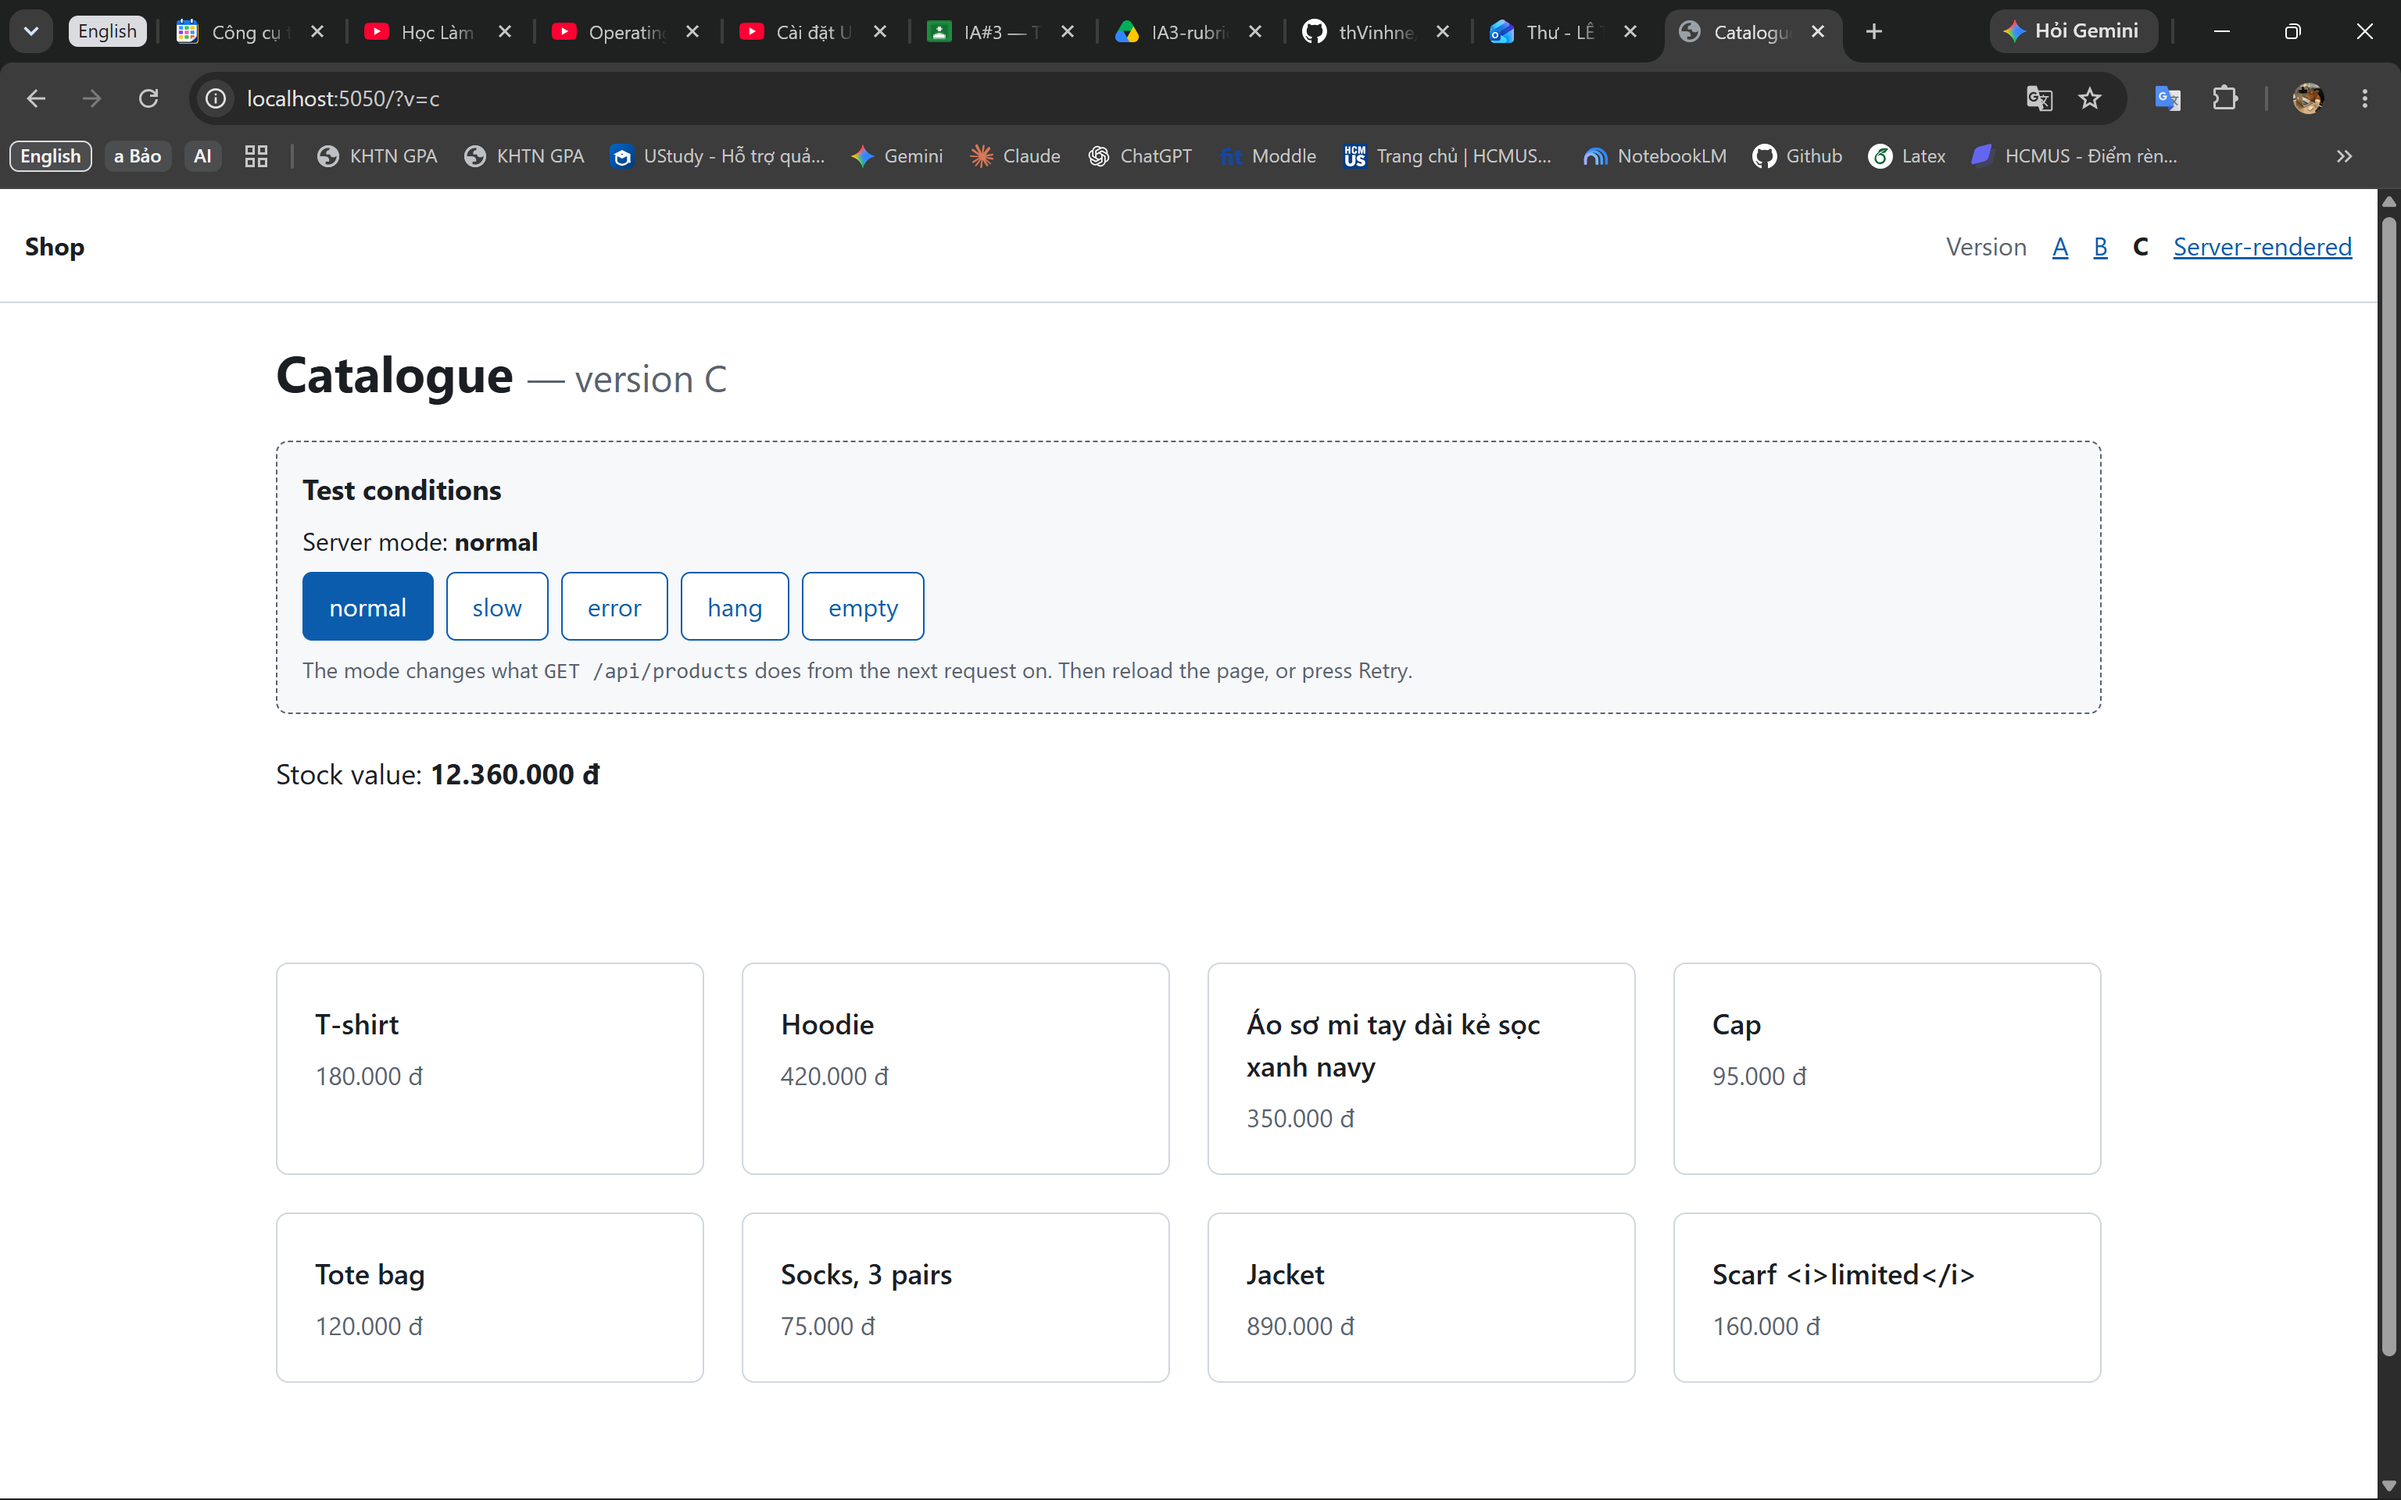
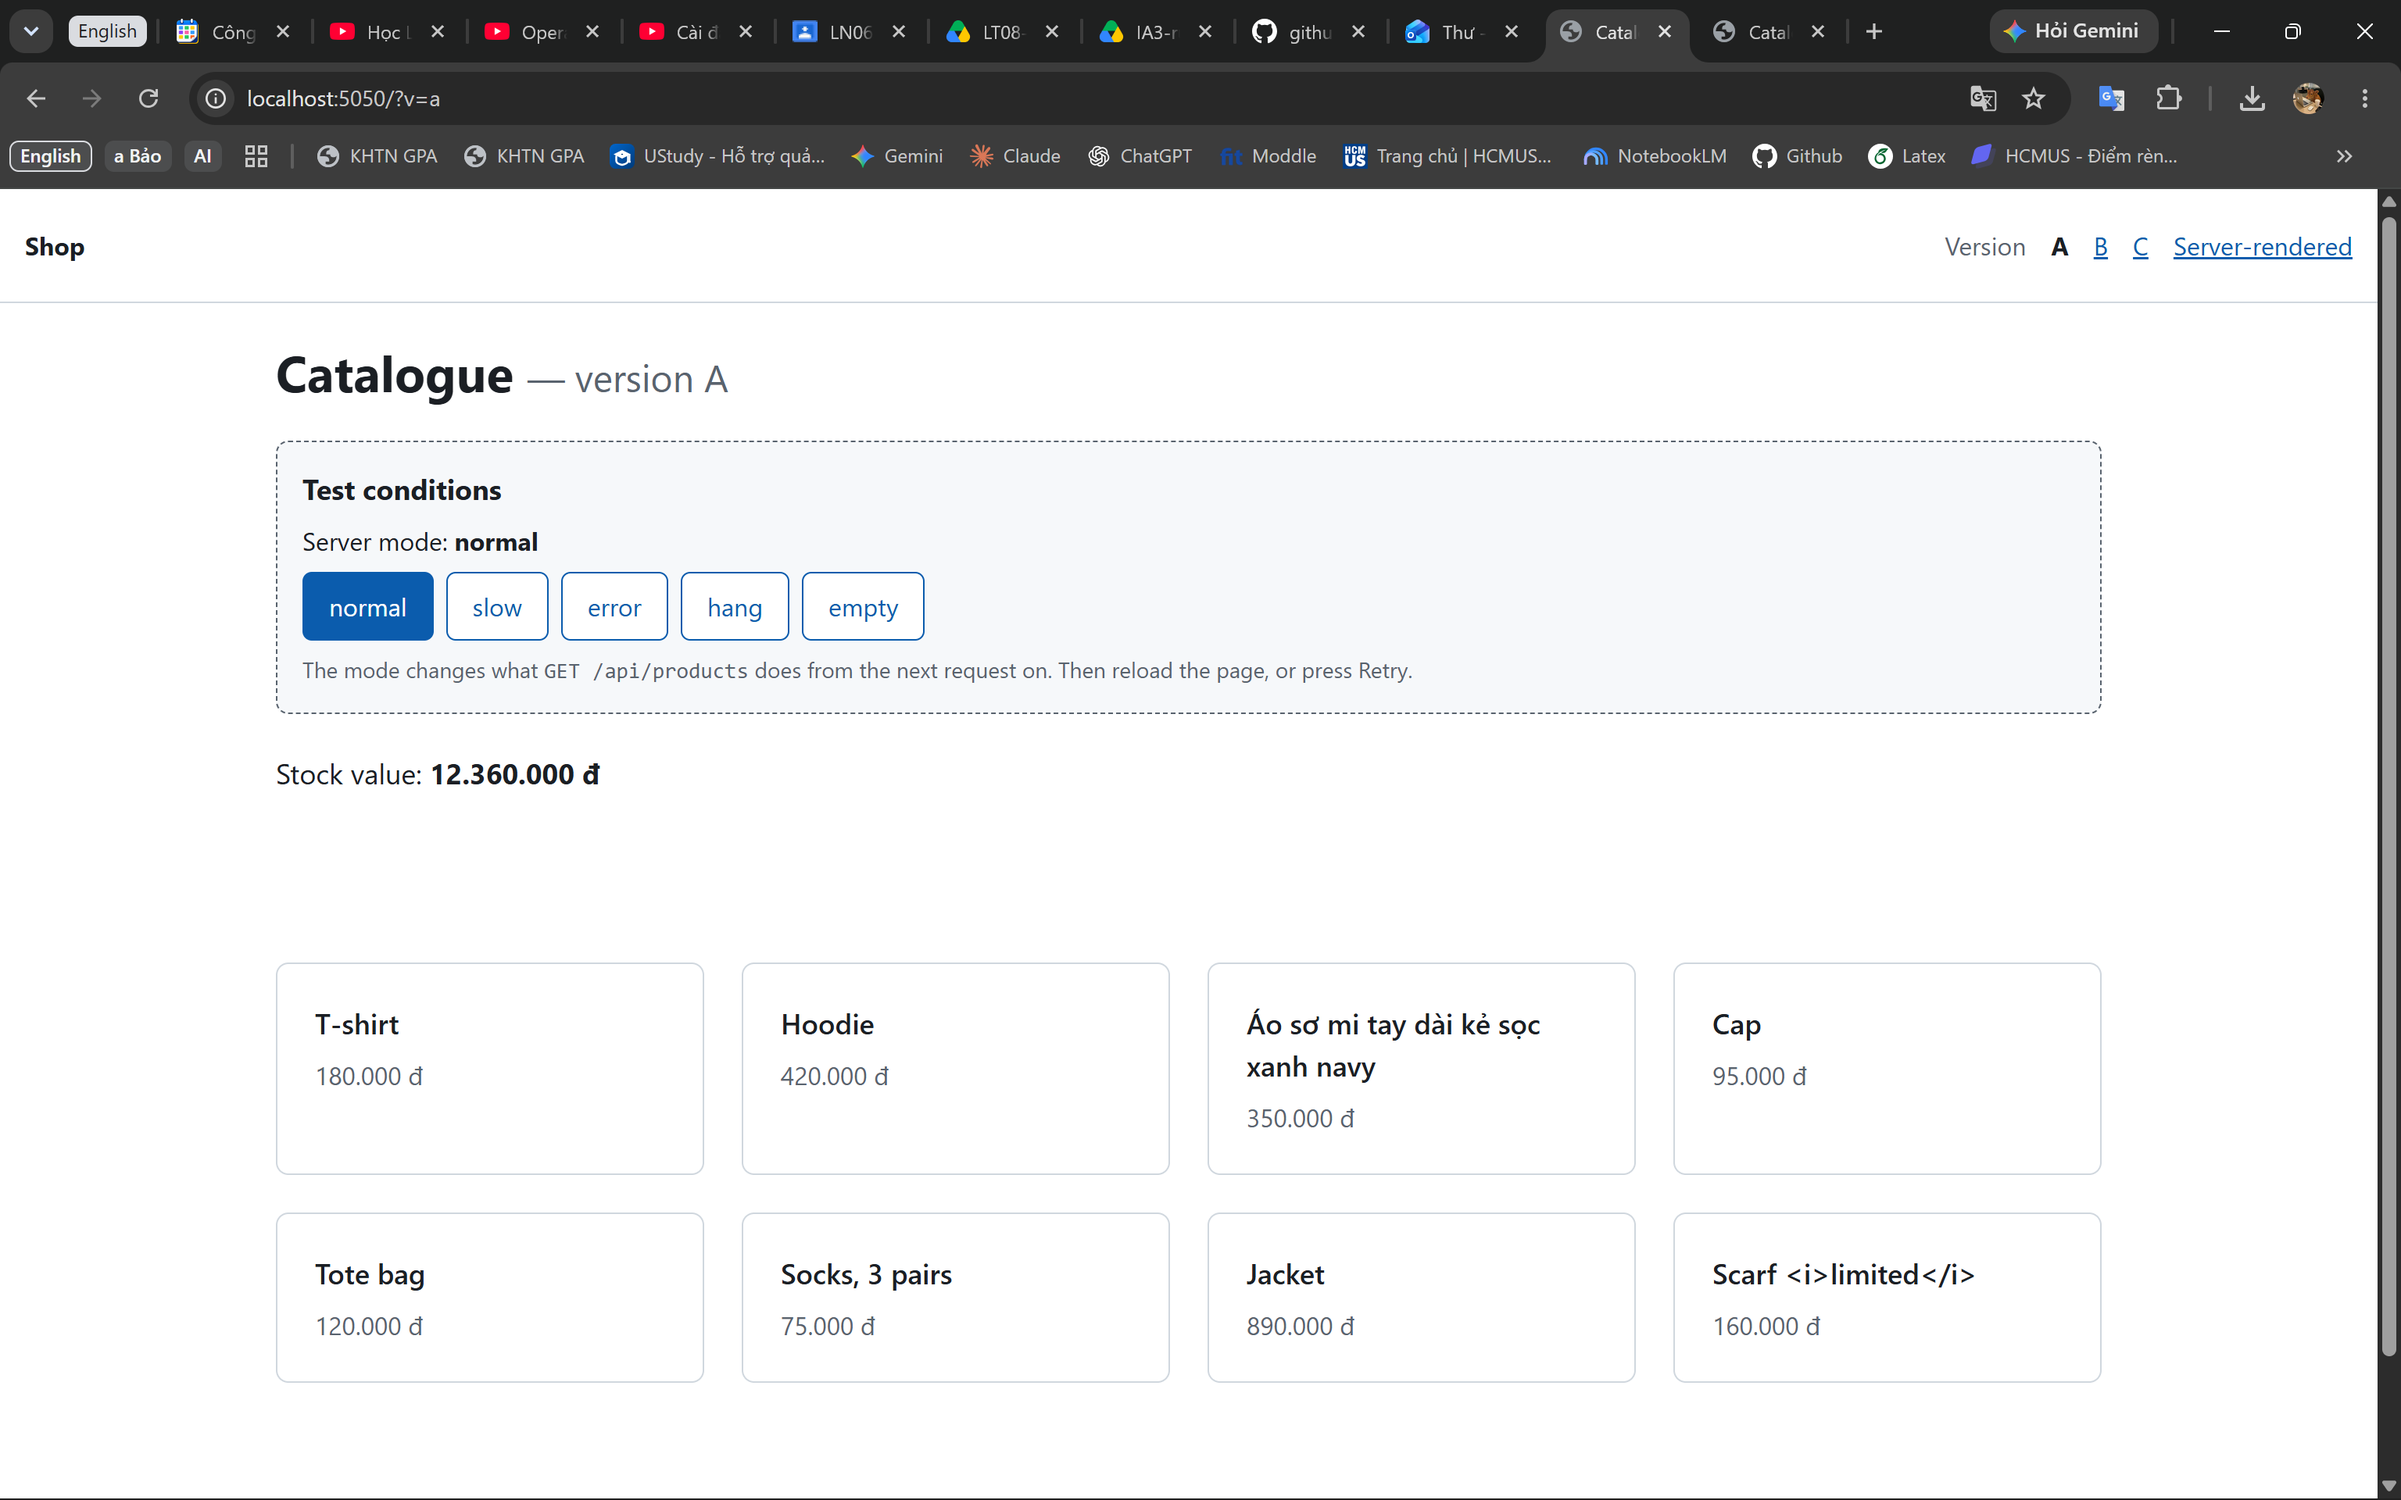
commit report

Changed region(s): [[0.125, 0.0, 0.7812, 0.0625], [0.8438, 0.0625, 0.9062, 0.0938], [0.8125, 0.1562, 0.8438, 0.1875]]

diff --git a/SELF_ASSESSMENT_REPORT.md b/SELF_ASSESSMENT_REPORT.md
@@ -1,0 +1,26 @@
+# Self-assessment — IA#3
+
+Submitted by: 24120157 — Lê Thái Vinh
+
+Total I claim: 100 / 100
+
+Tên ZIP dự kiến: `24120157_97.zip`.
+
+| Criterion | Max | Claim | Evidence |
+|---|---:|---:|---|
+| Verdicts and evidence | 30 | 30 | `VERDICTS.md` có 27 dự đoán và 27 kết quả bản gốc; A lỗi mục 2, B lỗi mục 6 và 8, có dòng code và câu yêu cầu sửa. Ảnh FAIL: `evidence/a-row2.png`, `evidence/b-row6.png`, `evidence/b-row8.png`. Ảnh B bổ sung ngày 03/11/2026: `b-row6.png` cho thấy Loading và request Pending với đồng hồ 5,55 giây; `evidence/b-row6-30s.png` cho thấy HTTP 504 và thời gian request 30,01 giây trong Network. Đồng hồ là phép đo thủ công; số 30,01 giây là số đo Network. Khoản trừ 5 điểm vì thiếu bằng chứng thời gian đã được khắc phục. Commit dự đoán `9fe8b2486783` đứng trước commit kết quả `d98cf0f786e9`. |
+| Every version passes every row | 25 | 25 | `public/versions/a.js`, `b.js`, `c.js`; kết quả tôi ghi trong `VERDICTS.md`. Lần kiểm tra trước của trợ lý bằng Chrome thật trên bản sao dùng server starter xác nhận cả ba đạt mục 1–8, empty và stock song song. TypeScript 6.0.3 cho 0 diagnostic ở mỗi bản; timeout A/B/C khoảng 5013,90 / 5011,90 / 5014,85 ms; tám stock request bắt đầu trong 0,282 / 0,450 / 0,278 ms. Đây là số đo của trợ lý, không phải lượt tôi tự chạy. Ảnh mới `evidence/a-row2-fix.png` hiển thị đúng version A, mode normal và tổng `12.360.000 đ`; `evidence/b-row6-fix.png` hiển thị đúng B, lỗi và Retry với đồng hồ 5,30 giây. Ảnh đồng hồ hỗ trợ ghi nhận thủ công, không thay số đo request; việc stock song song dựa trên kiểm tra trước của trợ lý, không suy từ tổng đúng trong ảnh. |
+| The assistant's review, checked | 15 | 15 | `ASSISTANT-REVIEW.md` có công cụ/model, prompt, review Sol nguyên văn và 27 dòng đối chiếu với kết quả bản gốc. Sol đã tìm đủ A mục 2 và B mục 6/8; chưa có lỗi bỏ sót được xác nhận. Nhận định về rejection khi stock của A gốc lỗi được ghi rõ là rủi ro có điều kiện chưa thử, không bị coi là FAIL mục 7 trong các lượt chuẩn. Thử riêng stock lỗi là kiểm tra mở rộng ngoài bảng bắt buộc; không trừ điểm vì chưa thực hiện thử nghiệm này. |
+| CSR vs SSR | 10 | 10 | `CSR-SSR.md` trả lời đủ năm câu; `evidence/csr-requests.png` và `ssr-requests.png` thể hiện 14/2 tổng request. Quan sát source, escape scarf và tắt JavaScript được ghi trong `CSR-SSR.md`. Lượt kiểm tra trước của trợ lý xác nhận các hành vi đó, 14/2 tổng request và 9/0 API lấy dữ liệu sản phẩm/tồn kho. |
+| AI-LOG.md | 10 | 10 | `AI-LOG.md` có các mục riêng cho review, sửa A, sửa B, kiểm tra sau sửa, CSR–SSR và audit; ghi công cụ, yêu cầu, kết quả, Kept/Changed/Rejected và nguồn kiểm chứng. Có sai sót thật được ghi cụ thể: trợ lý từng ghi nhầm rằng tôi chưa cung cấp kết quả CSR và bộ checker tạm ban đầu không phát hiện lỗi B mục 8, sau đó đã sửa và tái hiện TS2353.|
+| Scope and commit history | 10 | 10 | Commit `30154d2a0624` là starter, đủ 10 file khớp từng byte với ZIP. Dự đoán được commit trước kết quả. Ngoài A/B, các file starter giữ nguyên; C không đổi. |
+
+
+
+## What I did not manage
+
+None
+
+## What I would do differently
+
+Tôi sẽ chụp đúng URL, phiên bản và thông tin thời gian ngay khi thấy lỗi; kiểm tra nội dung ảnh trước khi dùng làm bằng chứng. Tôi sẽ lưu đầu ra kiểm thử, phân biệt tổng request với request API dữ liệu và ghi AI log ngay sau mỗi lần tương tác. Khi sửa, tôi sẽ commit riêng file code của từng phiên bản, rồi commit tài liệu và ảnh ở bước tiếp theo.
